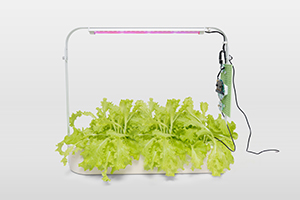
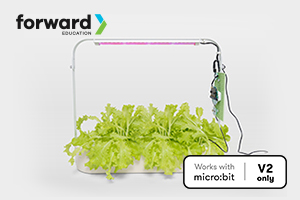
extension approval related changes

Changed region(s): [[0.03, 0.06, 0.96, 0.96]]

diff --git a/test.ts b/test.ts
@@ -5,41 +5,41 @@
 // ph(): number
 // isPastThreshold(threshold: number, direction: ThresholdDirection): boolean
 // calibrate(standard1: number, reading1: number, standard2: number, reading2: number): void
-console.log("ph: " + sensors.ph1.ph())
-basic.forever(function () {
-    if (typeof sensors.ph1.ph() === "number") {
-        if (sensors.ph1.isPastThreshold(7, sensors.ThresholdDirection.Over)) {
-            console.log(sensors.ph1.ph() + " is over 7")
-        }
-        if (sensors.ph1.isPastThreshold(7, sensors.ThresholdDirection.Under)) {
-            console.log(sensors.ph1.ph() + " is under 7")
-        }
-        basic.pause(1000)
-    }
-})
+console.log("ph: " + fwdSensors.ph1.ph())
 input.onButtonPressed(Button.A, function () {
-    sensors.ph1.calibrate(4, 5, 7, 8)
+    if (fwdSensors.ph1.isPastThreshold(7, fwdEnums.OverUnder.Over)) {
+        console.log(fwdSensors.ph1.ph() + " is over 7")
+    }
+    if (fwdSensors.ph1.isPastThreshold(7, fwdEnums.OverUnder.Under)) {
+        console.log(fwdSensors.ph1.ph() + " is under 7")
+    }
+    basic.pause(1000)
+})
+input.onButtonPressed(Button.B, function () {
+    fwdSensors.ph1.calibrate(4, 5, 7, 8)
 })
 
 // lights tests
 // setBrightness(value: number)
-input.onLogoEvent(TouchButtonEvent.Pressed, function () {
+basic.forever(() => {
     console.log("Test Start")
     console.log(
         "The brightness is changing every second for 6 seconds, but the Jacdac simulator only shows on / off."
     )
     basic.pause(1000)
-    lights.lights1.setBrightness(100)
+    fwdLights.lights1.setBrightness(100)
+    console.log("Light on? " + fwdLights.lights1.isOn())
     basic.pause(1000)
-    lights.lights1.setBrightness(75)
+    fwdLights.lights1.setBrightness(75)
     basic.pause(1000)
-    lights.lights1.setBrightness(50)
+    fwdLights.lights1.setBrightness(50)
     basic.pause(1000)
-    lights.lights1.setBrightness(25)
+    fwdLights.lights1.setBrightness(25)
     basic.pause(1000)
-    lights.lights1.setBrightness(10)
+    fwdLights.lights1.setBrightness(10)
     basic.pause(1000)
-    lights.lights1.setBrightness(0)
+    fwdLights.lights1.setBrightness(0)
+    console.log("Light on? " + fwdLights.lights1.isOn())
     console.log("Test End")
 })
 
@@ -47,15 +47,39 @@ input.onLogoEvent(TouchButtonEvent.Pressed, function () {
 // onFloatChange(state: FloatState, handler: () => void)
 // floatStateConditional(state: FloatState): boolean
 // floatState(): string
-sensors.float1.onFloatChange(sensors.FloatState.raised, () => {
+fwdSensors.float1.onFloatChange(fwdEnums.RaisedLowered.Raised, () => {
     console.log("Event: raised")
-    if (sensors.float1.floatStateConditional(sensors.FloatState.raised)) {
-        console.log("State: " + sensors.float1.floatState())
-    }
 })
-sensors.float1.onFloatChange(sensors.FloatState.lowered, () => {
+fwdSensors.float1.onFloatChange(fwdEnums.RaisedLowered.Lowered, () => {
     console.log("Event: lowered")
-    if (sensors.float1.floatStateConditional(sensors.FloatState.lowered)) {
-        console.log("State: " + sensors.float1.floatState())
+})
+basic.forever(() => {
+    if (
+        fwdSensors.float1.floatStateConditional(fwdEnums.RaisedLowered.Raised)
+    ) {
+        console.log("State: " + fwdSensors.float1.floatState())
     }
+    if (
+        fwdSensors.float1.floatStateConditional(fwdEnums.RaisedLowered.Lowered)
+    ) {
+        console.log("State: " + fwdSensors.float1.floatState())
+    }
+    basic.pause(1000)
+})
+
+// pump tests
+// isOn(): boolean
+// setOn(on: boolean): void
+// timedRun(duration: number): void
+// setOn() is used in timedRun, so it is covered by timedRun() test
+basic.forever(() => {
+    console.log("Pump on? " + fwdMotors.pump.isOn())
+    console.log("Run pump for 3s.")
+    fwdMotors.pump.timedRun(3)
+    basic.pause(1000)
+    console.log("1s... Pump on? " + fwdMotors.pump.isOn())
+    basic.pause(1000)
+    console.log("2s... Pump on? " + fwdMotors.pump.isOn())
+    basic.pause(1000)
+    console.log("3s... Pump on? " + fwdMotors.pump.isOn())
 })

diff --git a/README.md b/README.md
@@ -1,15 +1,22 @@
-# pxt-hydroponics
+# pxt-fwd-hydroponics
 
-Hydroponics Kit, by Forward Education
+Smart Hydroponics Kit, by Forward Education.
 
-Find us at [forwardedu.com](https://forwardedu.com/) and [learn.forwardedu.com](https://learn.forwardedu.com/). Learn more about the Hydroponics Kit on the [product page](https://forwardedu.com/products/smart-hydroponics-kit).
+Find us at [forwardedu.com](https://forwardedu.com/) and [learn.forwardedu.com](https://learn.forwardedu.com/). Learn more about the Smart Hydroponics Kit on the [product page](https://forwardedu.com/products/smart-hydroponics-kit).
+
+### ~ reminder
+
+![works with micro:bit V2 only image](/static/v2/v2-only.png)
+
+These blocks require the [micro:bit V2](/device/v2). If you use them with a V1 micro:bit you will see the 927 error code on the screen.
+
+### ~
 
 ## Example Usage
 
 Our learning systems are designed to simplify teaching coding and computer science for educators at all experience levels.
-Our Hydroponics Kit can be used on its own or joined with other kits to access our wider library of sensors, motors, lights, and buttons.
-Check out our lesson catalogue for curriculum-aligned lessons, including educator notes.
-A sample of coding with the Hydroponics Kit can be seen below.
+Our Smart Hydroponics Kit can be used on its own or joined with other kits to access our wider library of sensors, motors, lights, and buttons.
+Check out our libraries of [lessons](https://learn.forwardedu.com/lesson-library), [projects](https://learn.forwardedu.com/projects/), and [tutorials](https://learn.forwardedu.com/tutorials/). A sample of coding with the Smart Hydroponics Kit can be seen below.
 
 The light controller, pH sensor, float sensor, and water pump help create and maintain ideal growing conditions.
 
